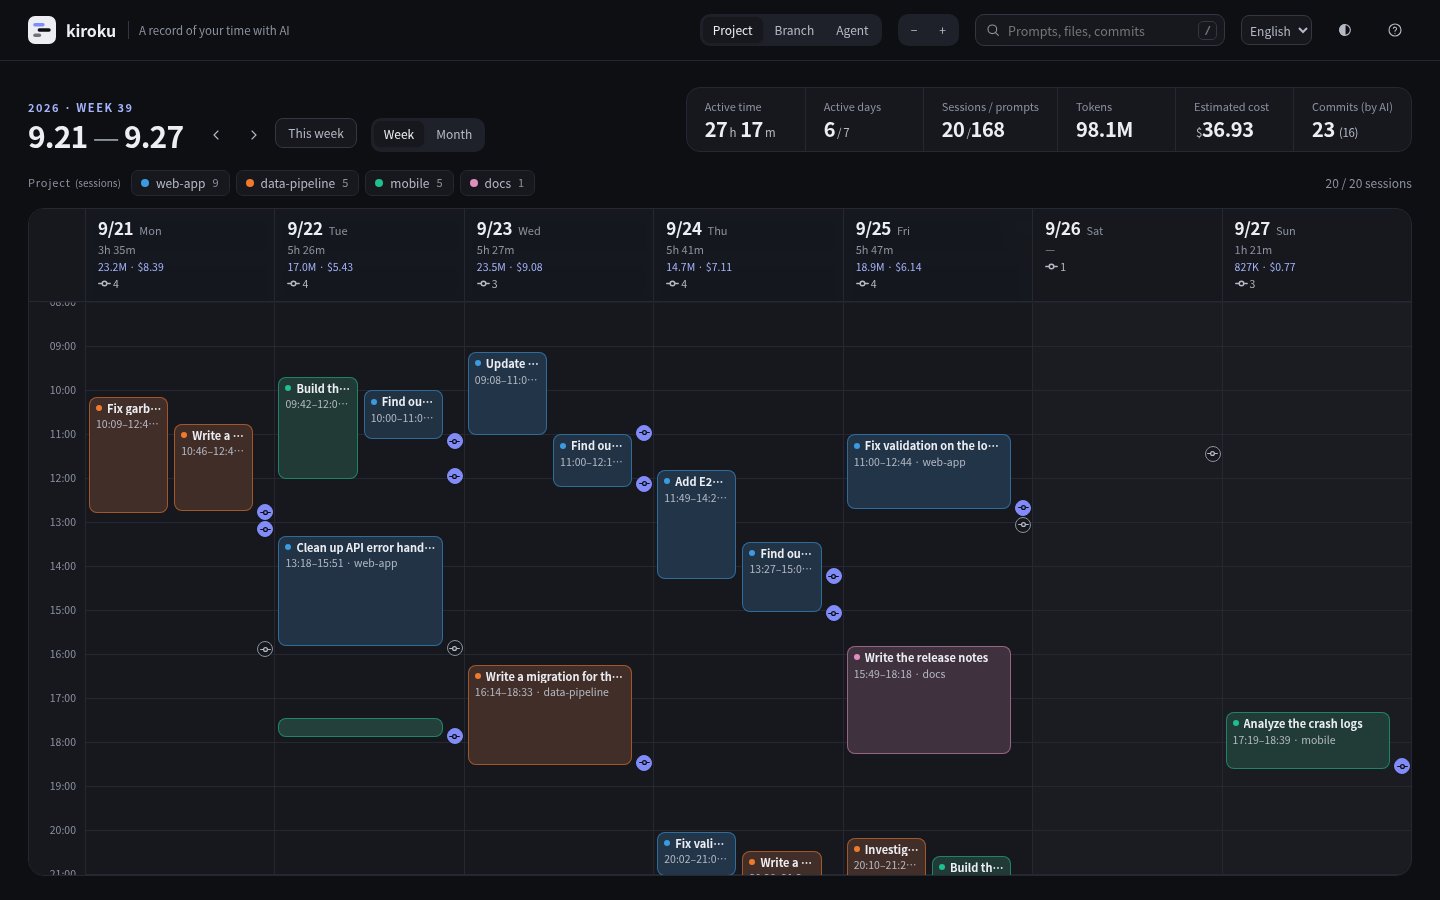
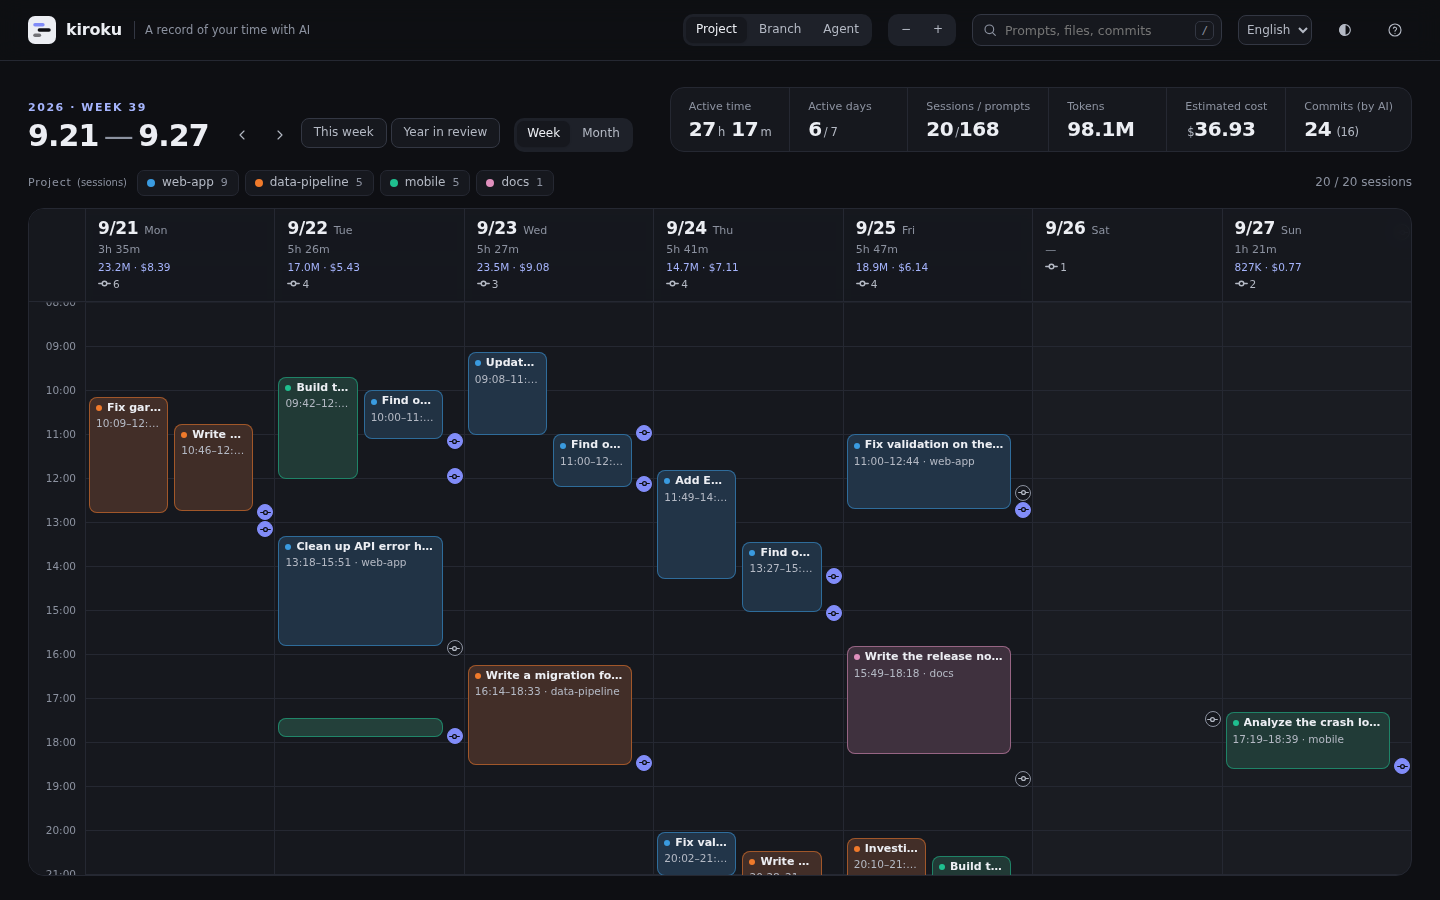
1 年のふりかえり（露光）と、シェア用の画像を足す (#76)
- 期間の移動の横の「ふりかえり」（Y）で、1 年ぶんの作業していた区間を、横に日付・縦に時刻（朝 6 時から翌朝 6 時）の光の筋として描く。色はエージェント、同時に動いていたほど明るく写る
- シェア用の 1600×900 の画像を画面の中で描き、PNG で保存・コピーできる。載るのは集計と光の筋だけで、依頼文・プロジェクト名・ブランチ・ファイル・目安コストは載せない
- その年の使い方の傾向を「光の名前」（夜光型・長時間露光型など 7 つ）で示し、決め手の基準と数字を添える
- README・ガイド（日英）・CHANGELOG・利用者目線のシナリオ・e2e・スクリーンショットを更新

diff --git a/docs/guide.md b/docs/guide.md
@@ -69,8 +69,21 @@ go install github.com/MichinaoShimizu/kiroku@latest
 - 「AI に改善案を聞く」には、表示中の週・月の集計をもとに、使い方の改善案を AI に聞くためのプロンプトを表示します。「プロンプトをコピー」でコピーし、お使いの AI エージェントに貼り付けて使います（kiroku 自身は AI を呼び出しません）。セッション名（依頼文の一部）とプロジェクト名を含むため、送る前に内容を確認してください
 - 検索（右上、`/`）：依頼文・タイトル・プロジェクト・ブランチ・エージェントに加えて、変更したファイル・PR・そのセッションの間のコミット（件名・ハッシュ・ファイル）も探します。カレンダーは一致したセッションだけを表示し、サマリーの位置に全期間の検索結果を「セッション」と「コミット」（件名・本文・ハッシュ・変更したファイルで一致）に分けて、一致した箇所の抜粋つきで表示します。凡例で非表示にしたものは除きます。結果を押すと、その週を開いて詳細を表示します
 - 週報・月報の下書き：サマリーの見出しの「週報の下書き」（月表示では「月報の下書き」）を押すと、プロジェクトごとに、やったこと（セッション名）・コミット・PR をまとめた Markdown の文面が開きます。文面を確かめてから「コピー」でコピーし、「閉じる」で閉じます。凡例で非表示にしたセッションは含めません。セッション名は依頼文の冒頭なので、共有する前に確認・編集してください
+- ふりかえり：期間の移動の横の「ふりかえり」（`Y`）で、1 年ぶんの「露光」を開きます。横に日付、縦に 1 日の時刻（朝 6 時から翌朝 6 時。深夜の作業は前の日の列の下のほうに写ります）をとり、セッションの作業していた区間を光の筋で描きます。色はエージェント、同時に動いていたほど明るく写ります。右上で年を選べます
+  - シェア用の 1 枚：作業していた時間・セッション数・コミット・PR・エージェントの内訳と光の筋を、1600×900 の画像にします。「PNG で保存」「画像をコピー」で取り出せます。載せる項目（コミット・PR、光の名前、エージェントの内訳）は選べます。画像は画面の中で作るだけで、どこにも送りません。依頼文・プロジェクト名・ブランチ・ファイル・目安コストは載りません。光の筋は、記録のある日から（短ければ 8 週ぶん）を写します
+  - 光の名前：その年の使い方の傾向を、写真の言葉で示します（良し悪しではありません）。上から順に、最初に当てはまったものを選びます
+
+    | 光の名前 | 基準 |
+    |---|---|
+    | 夜光型 | 深夜（22〜6 時）の作業が 30% 以上 |
+    | 朝焼け型 | 5〜9 時の作業が 25% 以上（セッションの作業していた区間の合計で比べる） |
+    | 多重露光型 | 3 つ以上のエージェントを、それぞれ作業時間の 10% 以上使った |
+    | 長時間露光型 | 1 セッションの作業が平均 45 分以上で、依頼は平均 10 件以下 |
+    | 連写型 | 1 セッションの依頼が平均 15 件以上 |
+    | ピント合わせ型 | 言い直し・中断のあった依頼が 15% 以上 |
+    | 昼光型 | ほかのどれにも当てはまらない |
 - 詳細を開くとフォーカスが詳細の中に移り、閉じると開いた帯やカードに戻ります。詳細の中で別の詳細（コミットやセッション）へ移ったときは「前の詳細に戻る」で戻れます
-- キーボード操作：`←` `→` で週・月を移動、`T` で今週・今月、`W` `M` で週・月を切り替え、`/` で検索、`+` `−` でズーム、`Esc` で詳細を閉じる、`?` でショートカットの一覧を表示
+- キーボード操作：`←` `→` で週・月を移動、`T` で今週・今月、`W` `M` で週・月を切り替え、`Y` でふりかえり、`/` で検索、`+` `−` でズーム、`Esc` で詳細を閉じる、`?` でショートカットの一覧を表示
 - 画面の言語は、ブラウザの言語に合わせて日本語か英語になります（日本語のブラウザでは日本語）。右上の選択欄で切り替えられ、選んだ言語はブラウザに保存されます。README とこのガイドの画像は英語表示です
 - テーマは自動・ライト・ダークから選べます（右上のボタン）。色分け・ズーム・テーマ・週 / 月の表示・日ごとの使用量の種類はブラウザに保存されます
 - スマートフォンの画面幅では、週カレンダーを横にスクロールでき（開いたときは、今日までで最後に作業した日とその前の日を表示します）、サマリーは 1 列で表示します

diff --git a/docs/guide.en.md b/docs/guide.en.md
@@ -69,8 +69,21 @@ The old forms `kiroku --serve`, `--json` and `-o` still work for now. `--weekly`
 - "Ask AI for suggestions" shows a prompt, based on the figures for the week or month shown, that asks an AI for suggestions on how you use it. Copy it with "Copy prompt" and paste it into the AI agent you use (kiroku itself never calls an AI). It includes session names (parts of your prompts) and project names, so check it before sending
 - Search (top right, `/`): in addition to prompts, titles, projects, branches and agents, it searches files changed, pull requests and commits made during each session (subject, hash, files). The calendar shows only matching sessions, and all-time results appear in place of the summary in two lists, Sessions and Commits (matched on subject, body, hash and files changed), with excerpts showing where they matched. Items hidden in the legend are left out. Press a result to open its week and show the details
 - Weekly and monthly report drafts: "Weekly report draft" ("Monthly report draft" in month view) in the summary heading opens the Markdown text with what you did (session names), commits and pull requests for each project. Check it, then press "Copy"; "Close" hides it. Sessions hidden in the legend are left out. Session names are the start of your prompts, so check and edit them before sharing
+- Year in review: "Year in review" next to the period controls (`Y`) opens the year's "exposure". Across is the date and down is the time of day (6:00 to 6:00 the next morning, so late-night work lands at the bottom of the previous day's column); each stretch of active time in a session is drawn as a streak of light, colored by agent and brighter where sessions overlapped. Choose the year at the top right
+  - An image to share: active time, sessions, commits, pull requests, the agent breakdown and the streaks of light as a 1600×900 image. Get it with "Save as PNG" or "Copy image", and choose what to include (commits and PRs, your light, the agent breakdown). The image is made in the page and sent nowhere; prompts, project names, branches, files and estimated cost are never included. The streaks start from the first day with history (at least 8 weeks)
+  - Your light: the shape of your year, named in photography terms (not a verdict). The first match from the top is chosen
+
+    | Your light | Rule |
+    |---|---|
+    | Night Glow | 30% or more of active time is late at night (22:00–6:00) |
+    | Daybreak | 25% or more of active time is between 5:00 and 9:00 (compared using the total active stretches of sessions) |
+    | Multiple Exposure | 3 or more agents, each with 10% or more of active time |
+    | Long Exposure | 45 minutes or more of active time per session, with 10 prompts or fewer on average |
+    | Burst | 15 or more prompts per session on average |
+    | Refocus | 15% or more of prompts had a correction or interruption |
+    | Daylight | None of the above |
 - Opening details moves focus into them, and closing them returns focus to the bar or card you opened them from. When you move from one detail to another (a commit or session), "Back" takes you back
-- Keyboard shortcuts: `←` `→` to move by week or month, `T` for this week or month, `W` `M` to switch between week and month, `/` to search, `+` `−` to zoom, `Esc` to close details, `?` to show the shortcut list
+- Keyboard shortcuts: `←` `→` to move by week or month, `T` for this week or month, `W` `M` to switch between week and month, `Y` for the year in review, `/` to search, `+` `−` to zoom, `Esc` to close details, `?` to show the shortcut list
 - The view is in Japanese in a Japanese-language browser, and in English otherwise. You can switch it with the selector at the top right, and your choice is saved in the browser. Images in the README and this guide show the English view
 - Choose the theme from auto, light and dark (the button at the top right). Color by, zoom, theme, week / month view and the Daily usage type are saved in the browser
 - At smartphone widths, the week calendar scrolls horizontally (when opened, it shows the last day you worked up to today and the day before), and the summary is shown in a single column

diff --git a/README.ja.md b/README.ja.md
@@ -29,6 +29,7 @@ AI エージェント（Claude Code・Kiro（IDE・CLI・Kiro Crew）・Amazon Q
 - **カレンダー**：いつ・どのプロジェクトで・何を依頼したかを、週 / 月のカレンダーで表示します。手元の git のコミットも並べ、どこに何をどう変更したかを確認できます
 - **気づき**：基準を超えた指標を、見えたこと・なぜ気にするか・該当するセッション・8 週（月表示では 8 か月）の推移の形で、優先度の高い順に示します
 - **サマリー**：プロジェクト別・日別に、コスト（作業時間・トークン・目安コスト・クレジット）と成果（コミット・PR・AI が編集した行）を並べて表示します。プロジェクト・ブランチ・エージェントごとに、作業時間の割合と、トークン・目安コスト・クレジットの割合を帯で見比べられます。各指標には、そこから言えること・言えないことの説明が付きます
+- **ふりかえり**：1 年ぶんの作業していた時間を、長時間露光の写真のような 1 枚（横に日付、縦に時刻）で描きます。使い方の傾向を「光の名前」で示し、シェア用の画像を PNG で保存・コピーできます。画像に載るのは集計と光の筋だけで、依頼文やプロジェクト名は載りません
 - **検索と週報**：依頼文・変更したファイル・コミットを全期間から探せます。週・月ごとに、やったこと・コミット・PR をまとめた週報・月報の下書きを、文面を確かめてからコピーできます
 - **AI に改善案を聞く**：表示中の週・月、または 1 つのセッションのデータから、AI に使い方の改善案を聞くためのプロンプトを作ります（コピーして、お使いの AI エージェントに貼り付けます）
 

diff --git a/README.md b/README.md
@@ -29,6 +29,7 @@ The view is in English or Japanese, following your browser's language; switch it
 - **Calendar**: when, in which project, and what you asked, by week or month. Your local git commits appear alongside, so you can see what changed where.
 - **Findings**: metrics that crossed a threshold, in priority order, each with what was observed, why it matters, the related sessions and an 8-week (or 8-month) trend.
 - **Summary**: cost (time, tokens, estimated cost, credits) next to outcomes (commits, pull requests, lines edited by AI), by project and by day. Share bars compare each project's, branch's or agent's share of active time with its share of tokens, estimated cost and credits. Every metric explains what it can and cannot tell you.
+- **Year in review**: your year of active time drawn like a long-exposure photo (date across, time of day down), with a name for your pattern ("your light") and an image to share, saved as a PNG or copied. The image shows only totals and the streaks of light, never prompts or project names.
 - **Search and weekly report**: search prompts, edited files and commits across all time, and preview and copy a weekly or monthly report draft of what you did, your commits and pull requests.
 - **Ask AI for suggestions**: build a prompt from the shown week, month or a single session that asks an AI for suggestions on how you use it. Copy it into the agent you already use.
 

diff --git a/CHANGELOG.md b/CHANGELOG.md
@@ -6,6 +6,7 @@ Notable changes to kiroku, in the style of [Keep a Changelog](https://keepachang
 
 ### Added
 
+- Year in review (`Y`, or "Year in review" next to the period controls): your year of active time drawn like a long-exposure photo, with date across and time of day down, each session's active stretches as streaks of light colored by agent. It names the shape of your year ("Night Glow", "Long Exposure" and five more, with the rule that chose it) and makes a 1600×900 image to share, saved as a PNG or copied. The image is drawn in the page and shows only totals and the streaks; prompts, project names, branches, files and estimated cost are never included
 - `kiroku archive on` keeps compressed copies of history that agents delete automatically (Claude Code conversations, Kiro Crew's `sessions/archive/`), and shows deleted conversations from those copies. It is off until you turn it on; the notice about Claude Code's 30-day default also offers "Keep a copy in kiroku" in `kiroku serve`. Copies stay on your computer (`--archive-dir` or `KIROKU_ARCHIVE_DIR` to choose where). `kiroku archive` shows the status, and `kiroku archive off` stops it. "Data sources" shows how many conversations came from the copies
 
 ## v0.2.1 - 2026-10-04

diff --git a/docs/usability.md b/docs/usability.md
@@ -37,6 +37,7 @@ Playwright で開き、次の 4 つの環境で試します。
 | 7 | 1 つのセッションを振り返る人 | うまくいかなかったセッションを AI と振り返る | 詳細を開き、振り返り用のプロンプトをコピーできる |
 | 8 | スマホで見る人 | 移動中に今週の様子をざっと見る | 横にはみ出さず、要点・気づき・カレンダーを読める |
 | 9 | キーボードだけで使う人 | 週を移動し、セッションの詳細を開いて閉じる | マウスを使わずにできる。どこにいるかが見える |
+| 10 | 1 年を振り返ってシェアしたい人 | 今年の使い方を 1 枚の画像にして SNS に貼る | ふりかえりを開き、図の読み方と「光の名前」の理由がわかり、画像に何が載って何が載らないかを確かめてから、PNG を保存できる |
 
 ## 観点
 
